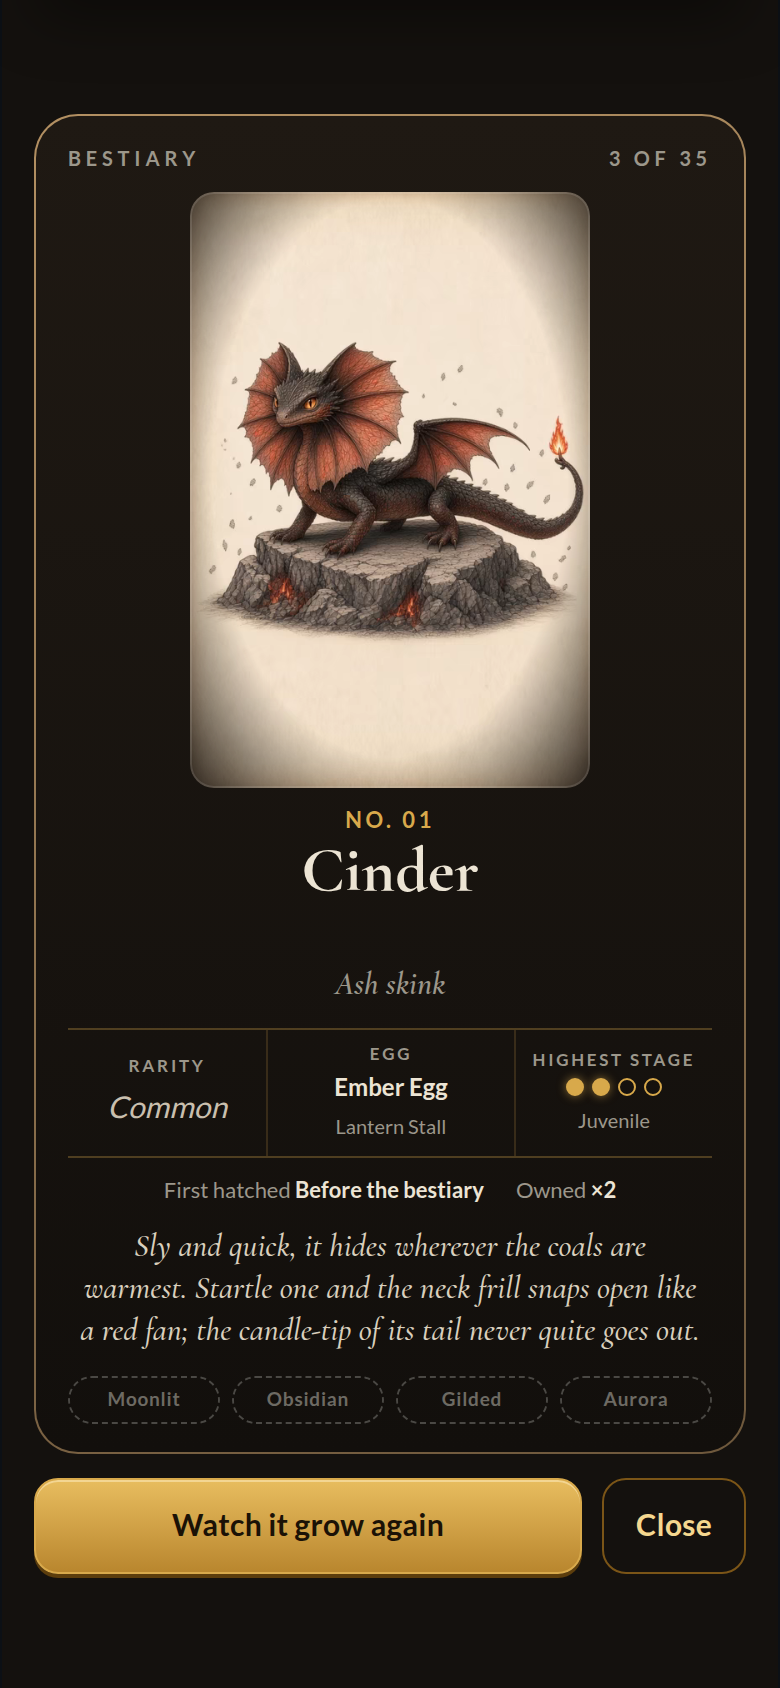
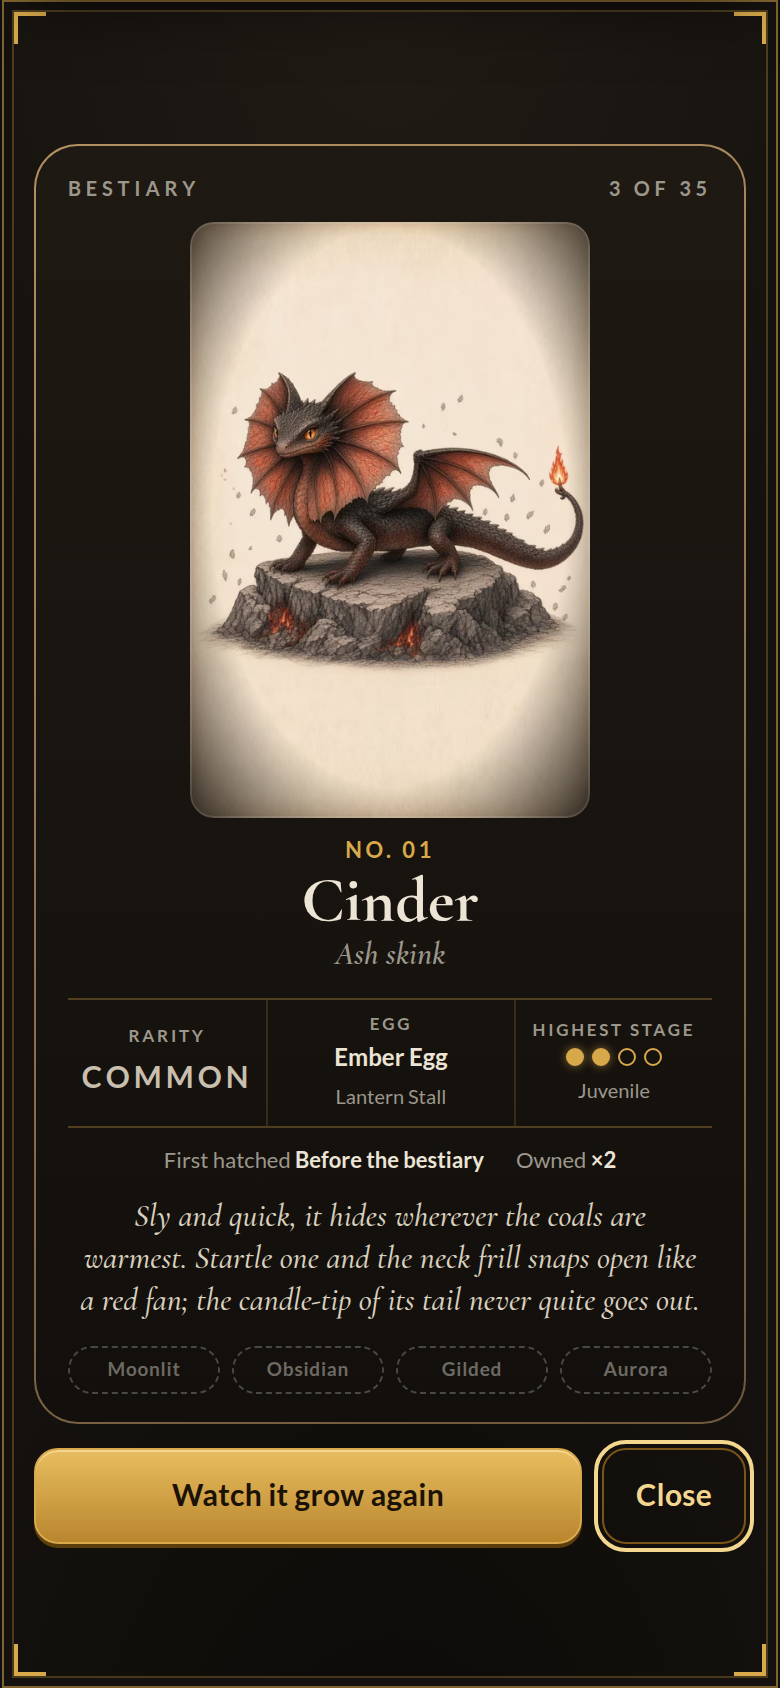
fix: match the Bestiary detail sheet to the journal mockup
Rarity reads in upright caps, the species tag sits under the name, and the sheet reuses the gold double rule and corner brackets. Found tiles use the warm black fill, and counts are set in caps.

Changed region(s): [[0.0, 0.0, 1.0, 1.0], [0.7692, 0.0616, 0.9538, 0.1232], [0.3385, 0.5853, 0.3692, 0.6161]]

diff --git a/index.html b/index.html
@@ -295,7 +295,8 @@ button:focus-visible,input:focus-visible,a:focus-visible{outline:2px solid var(-
 .rf-wrap.rf-mut{--rf-fill:linear-gradient(180deg,#26283a,#0c1015)}
 
 /* ---------- bestiary (handoff/feature-bestiary.md §6.0, mockups.html) ---------- */
-#bestiary{position:relative;overflow:hidden;display:flex;flex-direction:column;background:radial-gradient(120% 70% at 50% 0%,#211b15 0%,transparent 60%),radial-gradient(90% 60% at 50% 110%,#0c0a08 0%,transparent 70%),#14110e;color:#ece4d4;box-shadow:inset 0 0 0 1px rgba(216,169,75,.55),inset 0 0 0 5px #14110e,inset 0 0 0 6px rgba(216,169,75,.28)}
+#bestiary.bst-journal,#dexOv.bst-journal{background:radial-gradient(120% 70% at 50% 0%,#211b15 0%,transparent 60%),radial-gradient(90% 60% at 50% 110%,#0c0a08 0%,transparent 70%),#14110e;box-shadow:inset 0 0 0 1px rgba(216,169,75,.55),inset 0 0 0 5px #14110e,inset 0 0 0 6px rgba(216,169,75,.28)}
+#bestiary{position:relative;overflow:hidden;display:flex;flex-direction:column;color:#ece4d4}
 .bst-scroll{flex:1;min-height:0;overflow-y:auto}
 .bst-pins{position:absolute;inset:0;pointer-events:none;z-index:5}
 .bst-br{position:absolute;width:16px;height:16px;border:2px solid var(--gold)}
@@ -305,16 +306,16 @@ button:focus-visible,input:focus-visible,a:focus-visible{outline:2px solid var(-
 .bst-br.brb{bottom:6px;right:6px;border-left:0;border-top:0}
 #bestiary .topbar{justify-content:flex-start;gap:10px}
 #bestiary .topbar h1{flex:1;min-width:0;font-weight:700;font-size:24px;color:var(--gold-hi);white-space:nowrap;overflow:hidden;text-overflow:ellipsis;outline:none}
-#bchip{font:700 11px/1 var(--body);letter-spacing:.08em;color:var(--gold-hi);border:1px solid rgba(216,169,75,.6);border-radius:99px;padding:6px 10px;background:rgba(216,169,75,.08)}
+#bchip{font:700 11px/1 var(--body);letter-spacing:.08em;text-transform:uppercase;color:var(--gold-hi);border:1px solid rgba(216,169,75,.6);border-radius:99px;padding:6px 10px;background:rgba(216,169,75,.08)}
 .bst-back{flex:none;width:40px;height:40px;padding:0;border-radius:50%;border:1px solid rgba(244,215,143,.55);background:rgba(10,12,16,.62);color:var(--gold-hi);display:grid;place-items:center}
 .bst-back svg{width:18px;height:18px}
 .bst-entry{width:100%;margin-top:12px;display:flex;justify-content:space-between;align-items:baseline;gap:12px;padding:12px 16px;font-size:16px}
 .bst-entry small{font-size:12px;font-weight:600;color:var(--muted);font-variant-numeric:tabular-nums;white-space:nowrap}
-.bst-note{margin:0 0 4px;font-size:13px;line-height:18.5px;color:var(--muted);display:-webkit-box;-webkit-line-clamp:2;-webkit-box-orient:vertical;overflow:hidden}
+.bst-note{margin:0 0 4px;font-size:13px;line-height:18.5px;color:var(--muted);text-wrap:pretty;display:-webkit-box;-webkit-line-clamp:2;-webkit-box-orient:vertical;overflow:hidden}
 .bst-cta{width:100%;margin:8px 0 2px}
 #bestiary .ghead{display:flex;justify-content:space-between;align-items:baseline;gap:8px;margin:14px 0 8px;padding-bottom:5px;border-bottom:1px solid rgba(216,169,75,.25);font-family:var(--display);font-weight:700;font-size:18px;line-height:1;letter-spacing:0;text-transform:none;color:#ece4d4}
 #bestiary .ghead::after{display:none}
-#bestiary .ghead span{font-family:var(--body);font-weight:700;font-size:10px;line-height:1;letter-spacing:.1em;text-transform:none;color:var(--muted)}
+#bestiary .ghead span{font-family:var(--body);font-weight:700;font-size:10px;line-height:1;letter-spacing:.1em;text-transform:uppercase;color:var(--muted)}
 #bestiary .ghead.sub{font-size:16px;margin:12px 0 6px}
 .bst-star{color:var(--gold-hi);font-style:normal;font-size:13px;letter-spacing:0}
 .bst-grid{display:grid;grid-template-columns:repeat(3,minmax(0,1fr));gap:10px}
@@ -334,9 +335,13 @@ button.bx:active{transform:scale(.96)}
 .mut .bx .dno{font-size:9px}
 .bx.unk .bn{color:var(--muted)}
 .bx.unk .dno{background:rgba(174,164,143,.9);color:#3a3226}
+.mut .bx.unk .dno{font-size:11px;background:#d9d0bc;color:#241e16}
 .bx.unk .dart{background:#aea48f}
 .bx.unk .dart > img{opacity:.55;-webkit-mask:none;mask:none;object-position:50% 64%}
-#dexOv{align-items:flex-start;overflow-y:auto;background:#14110e;backdrop-filter:none}
+#bestiary button.bx.rf{--rf-fill:linear-gradient(#1a1612,#1a1612)}
+#bestiary button.bx.rf-mut{--rf-fill:linear-gradient(180deg,#26283a,#1a1612)}
+#dexOv{align-items:stretch;justify-content:flex-start;flex-direction:column;overflow:hidden;padding:0;backdrop-filter:none}
+#dexOv .dex-scroll{flex:1;min-height:0;overflow-y:auto;display:flex;align-items:flex-start;justify-content:center;padding:24px 16px}
 .dex-card{margin-block:auto;width:100%;max-width:360px}
 .dexsheet{--rf-r:22px;--rf-fill:linear-gradient(180deg,#1f1913,#120f0c);padding:16px 16px 14px;text-align:center}
 .dexsheet.rf-mut{--rf-fill:linear-gradient(180deg,#27233c,#120f0c)}
@@ -345,13 +350,14 @@ button.bx:active{transform:scale(.96)}
 .dexsheet .plate .dart{width:200px;border-radius:12px}
 .dexsheet .dno2{font:700 11px/1 var(--body);letter-spacing:.16em;color:var(--gold)}
 .dexsheet.rf-mut .dno2{color:#cdb8ff}
-.dexsheet .dname{font-family:var(--display);font-weight:700;font-size:32px;line-height:1;color:#ece4d4;margin-top:4px;display:-webkit-box;-webkit-line-clamp:2;-webkit-box-orient:vertical;overflow:hidden;overflow-wrap:anywhere}
+.dexsheet .dname{font-family:var(--display);font-weight:700;font-size:32px;line-height:1;color:#ece4d4;margin:4px 0 0;display:-webkit-box;-webkit-line-clamp:2;-webkit-box-orient:vertical;overflow:hidden;overflow-wrap:anywhere}
 .dexsheet .tag{font:italic 600 16px/1.2 var(--display);color:var(--muted);margin-top:2px}
 .dexsheet .stats{display:grid;grid-template-columns:1fr 1.25fr 1fr;margin-top:12px;border-top:1px solid rgba(216,169,75,.3);border-bottom:1px solid rgba(216,169,75,.3)}
 .dexsheet.rf-mut .stats{border-color:rgba(205,184,255,.35)}
 .dexsheet .stats > div{padding:8px 4px;display:flex;flex-direction:column;gap:5px;align-items:center;justify-content:center}
 .dexsheet .stats > div + div{border-left:1px solid rgba(216,169,75,.18)}
 .dexsheet .stats h4{font:700 8.5px/1 var(--body);letter-spacing:.16em;color:var(--muted);text-transform:uppercase;margin:0}
+.dexsheet .stats em.r{font-style:normal;font-weight:700;text-transform:uppercase;letter-spacing:2px}
 .dexsheet .stats b{font:700 12px/1.15 var(--body);color:#ece4d4}
 .dexsheet .stats .sc{font-size:10px;color:var(--muted);font-weight:400}
 .dexsheet .pips{display:flex;gap:4px}
@@ -536,7 +542,7 @@ button.dexchip{cursor:pointer}
     <div id="dragonBody"></div>
   </main>
 
-  <main id="bestiary" class="screen" aria-label="Bestiary" hidden>
+  <main id="bestiary" class="screen bst-journal" aria-label="Bestiary" hidden>
     <div class="bst-pins" aria-hidden="true"><i class="bst-br tl"></i><i class="bst-br tr"></i><i class="bst-br bl"></i><i class="bst-br brb"></i></div>
     <div class="bst-scroll pad">
       <div class="topbar">
@@ -558,7 +564,7 @@ button.dexchip{cursor:pointer}
 
   <div class="overlay" id="hatchOv" hidden></div>
   <div class="overlay" id="shareOv" hidden></div>
-  <div class="overlay" id="dexOv" hidden></div>
+  <div class="overlay bst-journal" id="dexOv" hidden></div>
   <div class="overlay reveal-ov" id="revealOv" hidden></div>
 </div>
 
@@ -1574,7 +1580,7 @@ function renderBestiary(){
   };
   const dFound = DEX_LINES.filter(l => S.dex[l]).length;
   const mTotal = DEX_LINES.length * MUT_KEYS.length, mFound = DEX_KEYS.filter(k => k.includes(":") && S.dex[k]).length;
-  let h = `<p class="bst-note">${found ? "Every dragon you hatch gets a page here. Tap a page to read it." : "No pages yet. Hatch an egg and its dragon gets a page here."}</p>`;
+  let h = `<p class="bst-note">${found ? "Every dragon you hatch gets a page here. Tap a page to read\u00A0it." : "No pages yet. Hatch an egg and its dragon gets a page here."}</p>`;
   if (!found) h += S.eggs.length ? `<button class="btn bst-cta" data-act="goto-nest">Go to the nest</button>` : `<button class="btn bst-cta" data-act="goto-stall">Visit the Lantern Stall</button>`;
   h += `<h2 class="ghead">Dragons <span>${dFound} of ${DEX_LINES.length}</span></h2><div class="bst-grid">${DEX_LINES.map(l => tile(l, null, 0)).join("")}</div>`;
   h += `<h2 class="ghead">Mutations <span>${mFound} of ${mTotal}</span></h2>`;
@@ -1582,7 +1588,7 @@ function renderBestiary(){
   DEX_LINES.forEach((l, li) => {
     const n = MUT_KEYS.filter(m => S.dex[l + ":" + m]).length;
     const star = n === MUT_KEYS.length ? ` <b class="bst-star">★</b>` : "";
-    h += `<h3 class="ghead sub">${S.dex[l] ? esc(DRAGONS[l].name) : "???"}<span> · ${n} / ${MUT_KEYS.length}${star}</span></h3>
+    h += `<h3 class="ghead sub">${S.dex[l] ? esc(DRAGONS[l].name) : "???"}<span>${n} / ${MUT_KEYS.length}${star}</span></h3>
       <div class="bst-grid mut">${MUT_KEYS.map((m, mi) => tile(l, m, li * MUT_KEYS.length + mi)).join("")}</div>`;
   });
   h += `<div style="height:24px"></div>`;
@@ -1608,7 +1614,8 @@ function openDex(k){
   const odds = m ? `<div class="facts"><span>Odds per hatch <b>${pct(RARITY[r].mut / MUT_KEYS.length)}</b></span></div>` : "";
   dexFrom = k;
   const ov = $("#dexOv");
-  ov.innerHTML = `<div class="card-wrap dex-card" role="dialog" aria-modal="true" aria-labelledby="dexName">
+  ov.innerHTML = `<div class="bst-pins" aria-hidden="true"><i class="bst-br tl"></i><i class="bst-br tr"></i><i class="bst-br bl"></i><i class="bst-br brb"></i></div>
+    <div class="dex-scroll"><div class="card-wrap dex-card" role="dialog" aria-modal="true" aria-labelledby="dexName">
       <div class="${rfcls(d)} dexsheet"${m ? ` style="${rfd(0)}"` : ""}>
         <div class="brand"><span>Bestiary</span><span>${dexFound()} of ${DEX_KEYS.length}</span></div>
         <div class="plate">${dragonArt(d, {live:true, stage:e.top})}</div>
@@ -1627,9 +1634,9 @@ function openDex(k){
         <div class="dexchips">${chips}</div>
       </div>
       <div class="card-actions" id="dexActions"><button class="btn ghost" data-act="close-dex">Close</button></div>
-    </div>`;
+    </div></div>`;
   ov.hidden = false;
-  ov.scrollTop = 0;
+  const sc = ov.querySelector(".dex-scroll"); if (sc) sc.scrollTop = 0;
   ov.querySelector("[data-act=close-dex]").focus();
   const best = S.dragons.filter(x => dexKeys(x).includes(k)).sort((a, b) => (b.xp || 0) - (a.xp || 0))[0];
   const si = best ? stageIdx(best) : 0;
